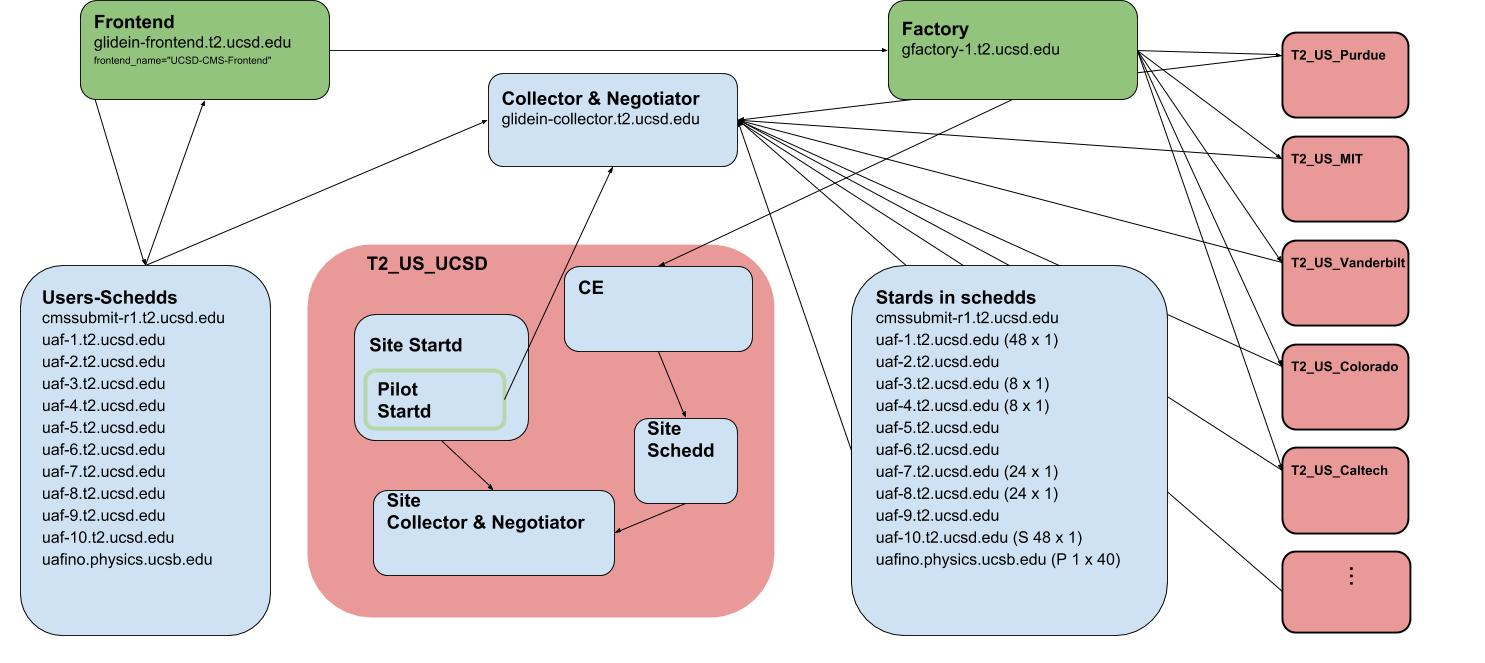
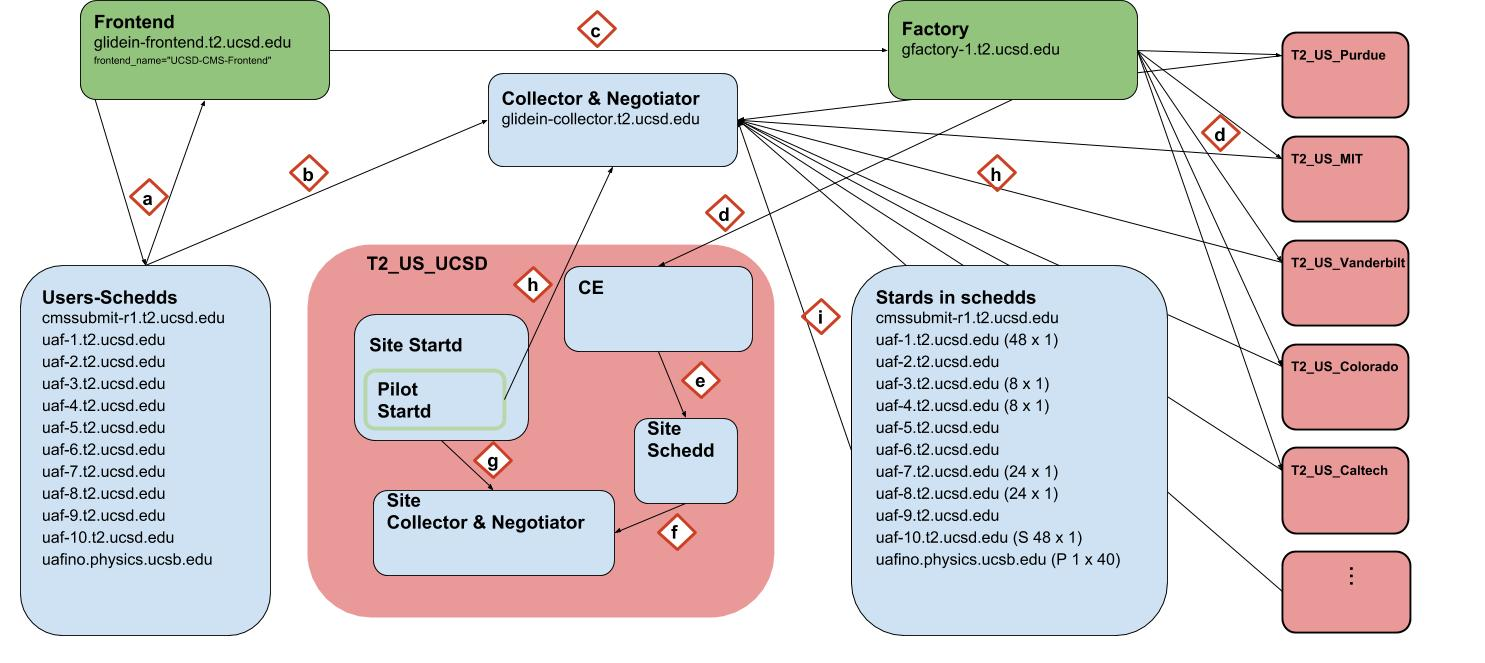
First draft

diff --git a/README.md b/README.md
@@ -54,6 +54,9 @@ Currently this component lives in the following host:<br>
 ###4. Factory.
 The Factory keeps a catalog of all the grid resources and the main attributes of their worker nodes like the number of cores, memory, disk, etc. It also knows the entry point to each of the grid sites also known as Gatekeeper. The Factory is the one allowed to send remote jobs or "pilots" to the sites to requesting a resource allocation. These pilots will be queued or will "land" in a site's batch system and later on when they get to run they will startup a condor Startd that will connect back to the pool's Collector mentioned above.
 
+Currently this component lives in the following host:<br>
+**gfactory-1.t2.ucsd.edu**
+
 ###5. Startds.
 This is the HTCondor component that represents the resources in the pool. On "grid land" the Startds are started by and within the pilots when they get to run in a given site. These startds will represent an allocation of resources in a given site and these resources are available through the UAF infrastructure.
 

diff --git a/diagram/README.md b/diagram/README.md
@@ -1,2 +1,10 @@
 # General diagram
 <p><img src="../images/uaf_infrastructure.jpg" alt="Infrastructure diagram"></p>
+**a**. The Frontend queries the schedds for idle jobs<br>
+**b**. The schedds advertise its jobs' classAds to the Collector<br>
+**c**. The Frontned request pilots to the factory<br>
+**d**. The Factory sends pilots to the Sites' Gatekeepers<br>
+**e**. The pilot gets queued into the Site's local batch system<br>
+**f**. Similar to (b) but it happens inside the Site's local batch(in case it is condor)<br>
+**g**. The Startds advertise themselves to the Collector<br>
+**h**. Inside a Site Startd a pilot starts and in turn executes a pilot Startd that will advertise itself not to the Site's Collector as in (g) but the global one. <br>

diff --git a/monitoring/README.md b/monitoring/README.md
@@ -17,6 +17,7 @@ The pilot information could be submitted at pilot startup and before it goes awa
  
 ### Querying the condor history
 **Description:** Querying the history of condor in each of the schedds one could get information about the "history" of the job
+
 **Pros:**
 * One single point of data source, no need to share password/certificate to push data
 
